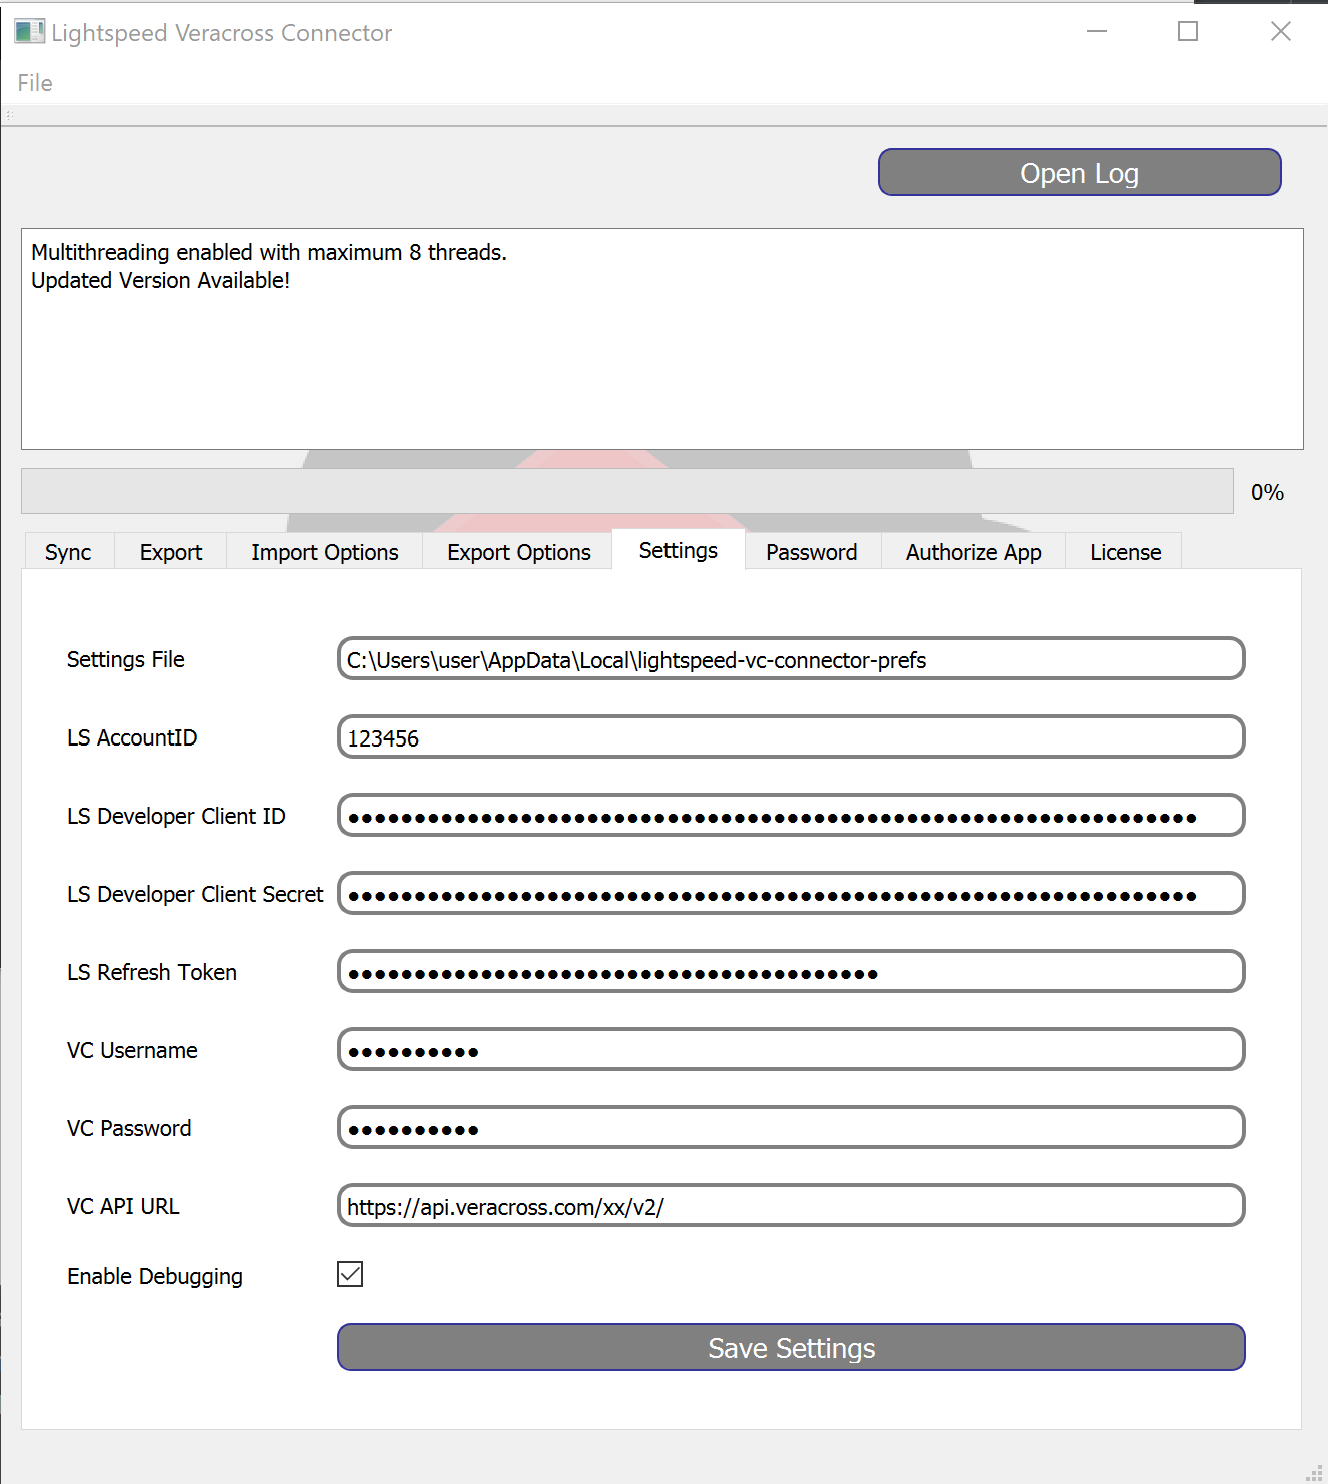
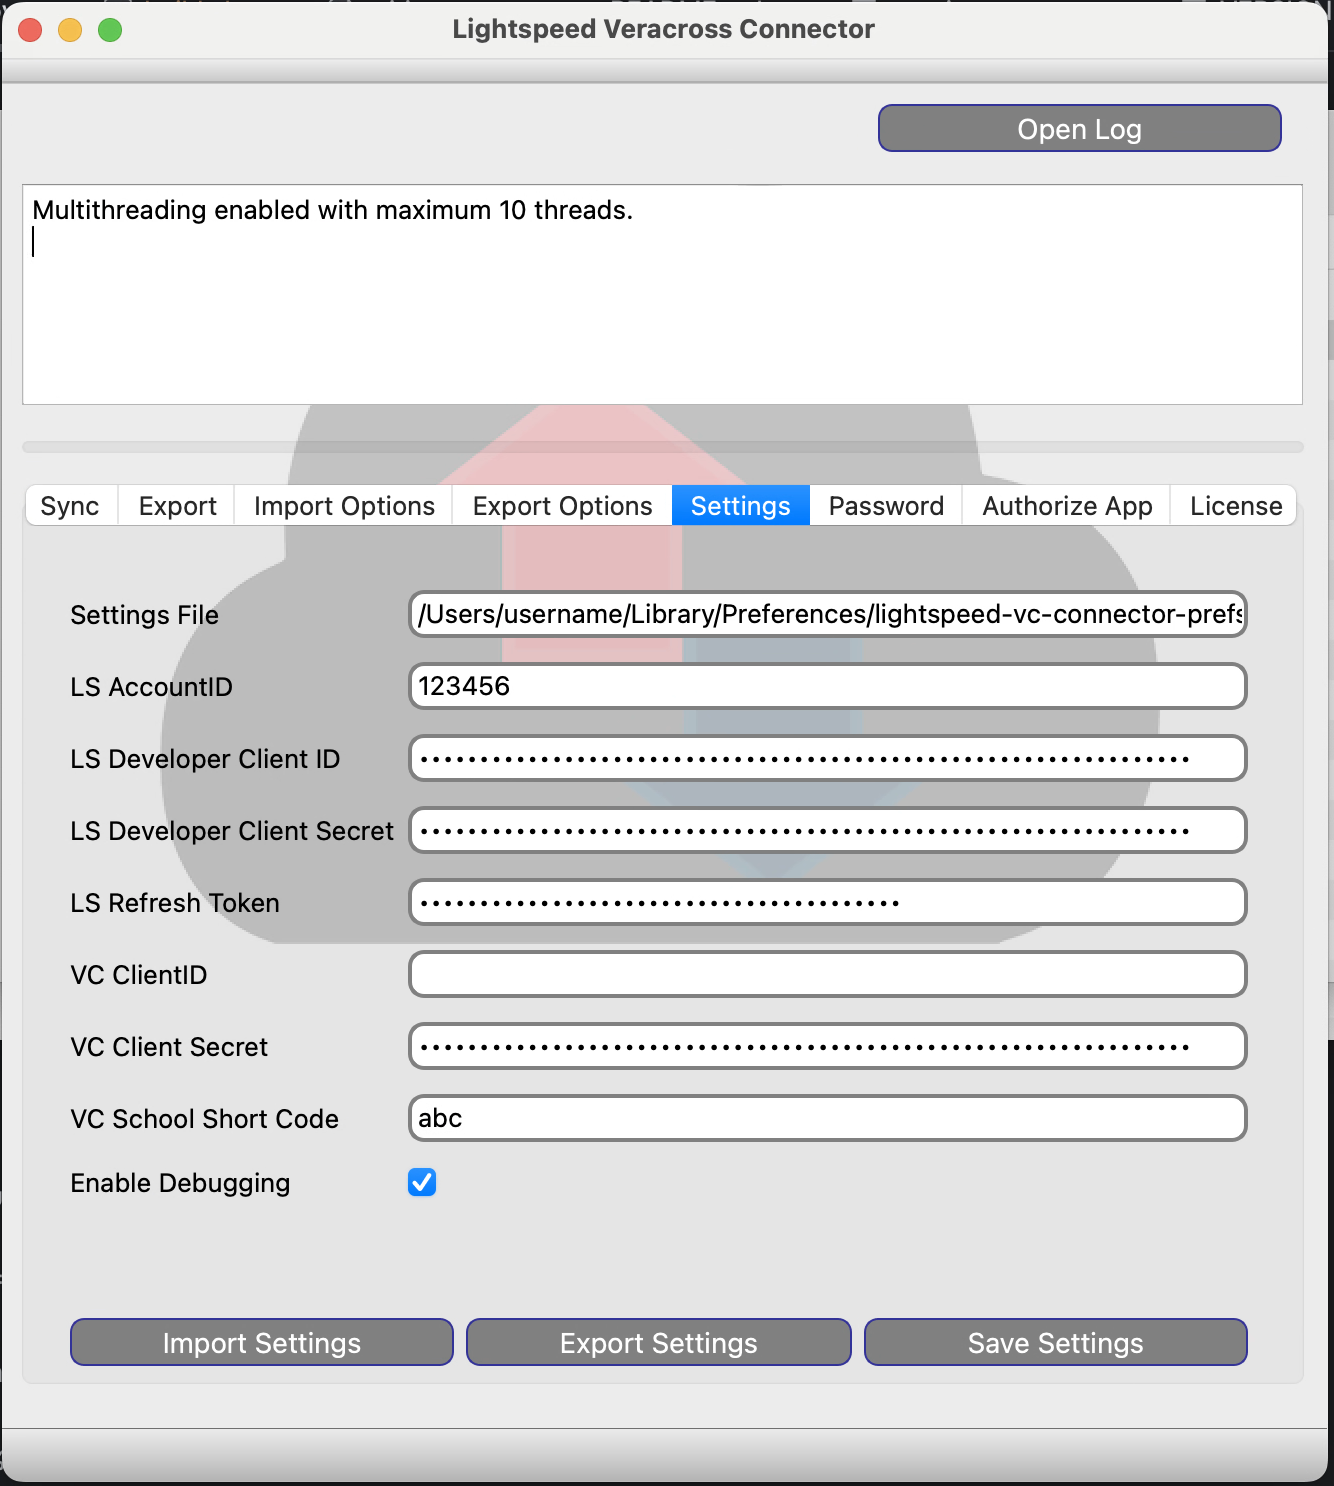
readme updates

diff --git a/main.py b/main.py
@@ -373,18 +373,18 @@ class Main(QMainWindow):
             return None
 
         # Going to use progress bar.  Make sure it is at zero first.
-        self.ui.progressBar.setValue(0)
+        # self.ui.progressBar.setValue(0)
 
         # Determine each increment for progress bar.
-        increment = 100 / len(vcdata)
-        total_increment = 0
+        # increment = 100 / len(vcdata)
+        # total_increment = 0
 
         # Loop through the data from VC.
         for i in vcdata:
 
             # increment the progress bar.
-            total_increment = total_increment + increment
-            self.ui.progressBar.setValue(int(total_increment))
+            # total_increment = total_increment + increment
+            # self.ui.progressBar.setValue(int(total_increment))
 
             self.debug_append_log("Processing VC Record {}".format(i["id"]), "debug")
 
@@ -714,8 +714,8 @@ class Main(QMainWindow):
         for i in salelines['Sale']:
 
             # increment the progress bar.
-            total_increment = total_increment + increment
-            self.ui.progressBar.setValue(int(total_increment))
+            #total_increment = total_increment + increment
+            #self.ui.progressBar.setValue(int(total_increment))
 
             # Does this invoice have a payment that is on account.
             on_account = False
@@ -957,7 +957,7 @@ class Main(QMainWindow):
             return None
 
         # Finish of progress bar
-        self.ui.progressBar.setValue(int(100))
+        # self.ui.progressBar.setValue(int(100))
 
     def clear_account_balances(self, customerID, balance, paymentID, creditAccountID, emp_id):
         try:

diff --git a/README.md b/README.md
@@ -72,17 +72,20 @@ Gift Cards all together or do not use the credit account as a way to purchase th
 
 ![alt text](images/screenshots/ls_oauth_signup.png "LS OAuth")
 
-4) Obtain Veracross API credentials from Veracross Account Rep.
+4) Create a new Veracross API3 OAuth in Veracross and assign the scopes:
+
+![alt_text](images/screenshots/scopes.png "VC Scopes")
     
-5) Run the application.  You will be prompted for a password.  This password will be used for encrypting the new settings file.
+5) Run the application.  You will be prompted for a password.  This password will be used for encrypting the new settings file. You will enter this password on each 
+subsequential launch of the application.
 
 6) On the settings tab, enter:
-* LS Account ID Number (Click Username when logged into Lightspeed)
+* LS Account ID Number (Click Username when logged into Lightspeed R-Series)
 * LS Developer Client Developer ID
 * LS Developer Client Secret
-* VC Username
-* VC Password
-* VC URL (https://api.veracross.com/{schoolcode}/v2/)
+* VC API Client ID
+* VC API Secret
+* VC School Shortcode (abc)
 
 ![alt text](images/screenshots/lightspeed-account-num.png "LS AccountNum")
 
